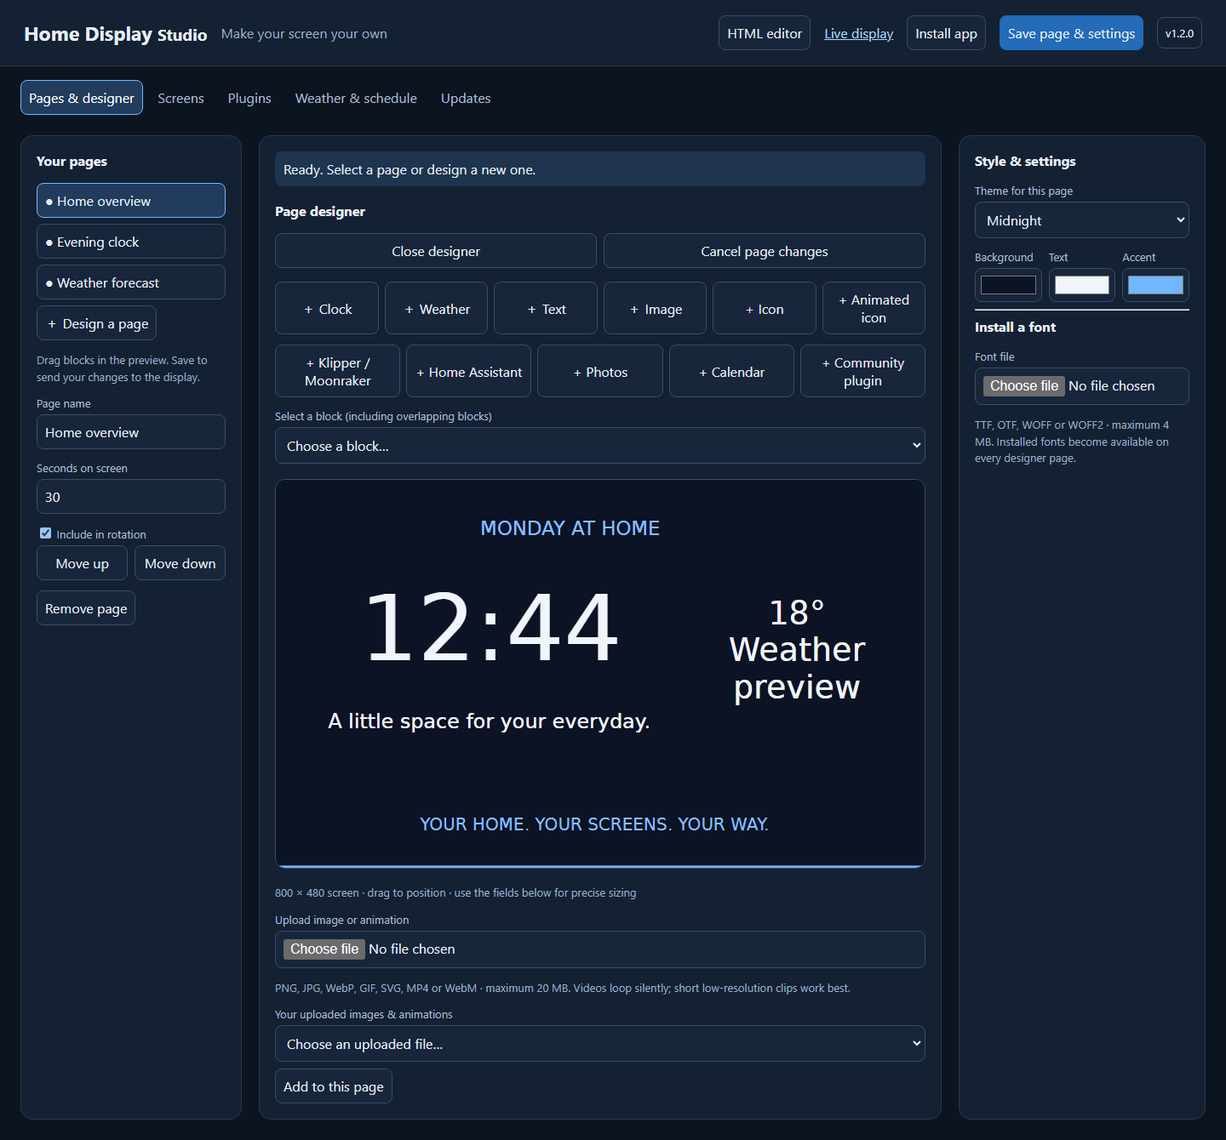
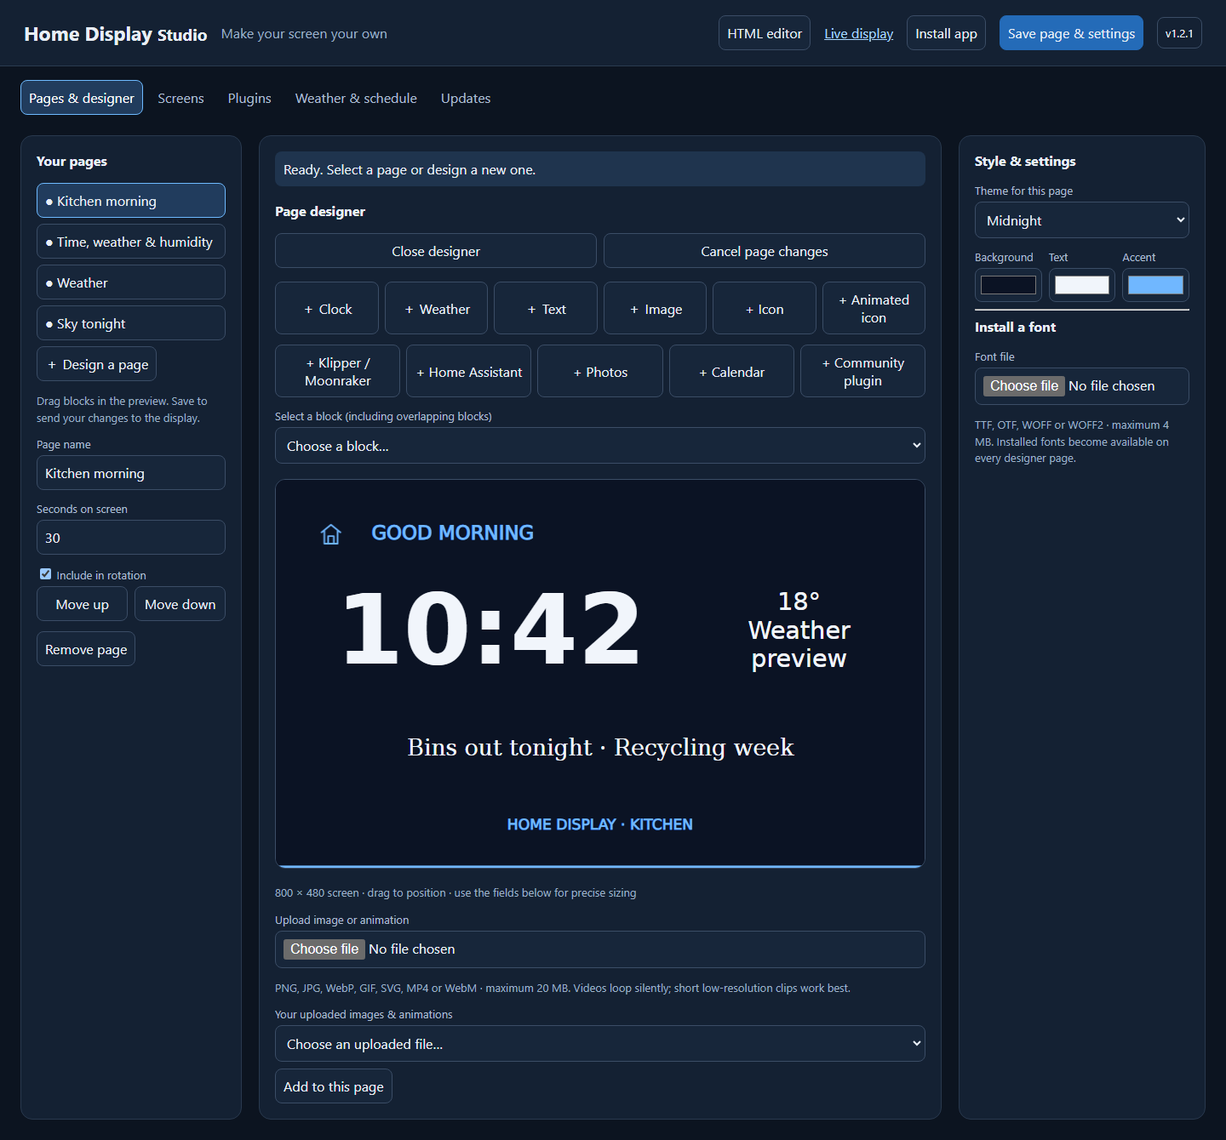
Rewrite README for public release with new screenshots
The screenshot tool now uses a fixed clock and full weather data, and builds
a gallery of the built-in pages for the README.

diff --git a/tools/capture-screenshots.py b/tools/capture-screenshots.py
@@ -1,29 +1,59 @@
-import os,json,socket,subprocess,tempfile,time,urllib.request,shutil
+"""Regenerate docs/images with temporary example data; saved dashboard settings are left untouched."""
+import os,json,socket,subprocess,tempfile,time,urllib.request,shutil,datetime
 from pathlib import Path
+from PIL import Image,ImageDraw
 from playwright.sync_api import sync_playwright
 root=Path(__file__).resolve().parents[1]
 output=root/'docs/images';output.mkdir(parents=True,exist_ok=True)
+MORNING=datetime.datetime(2026,10,12,10,42);EVENING=datetime.datetime(2026,10,12,21,15)
+def weather(day):
+    sunrise=int(datetime.datetime(2026,10,12,7,10).timestamp());sunset=int(datetime.datetime(2026,10,12,18,20).timestamp())
+    return {'current':{'temperature_2m':17.6,'apparent_temperature':16.4,'relative_humidity_2m':62,'dew_point_2m':10.2,'wind_speed_10m':12,'pressure_msl':1018,'weather_code':2,'is_day':int(day)},
+            'daily':{'time':['2026-10-12','2026-10-13'],'weather_code':[2,61],'temperature_2m_max':[19,16],'temperature_2m_min':[11,9],'precipitation_probability_max':[10,70],'sunrise':[sunrise,sunrise+86400],'sunset':[sunset,sunset+86400]}}
+def block(id,type,x,y,w,h,size,content='',colour='#f1f5fb',**style):
+    return dict(id=id,type=type,x=x,y=y,w=w,h=h,size=size,content=content,colour=colour,**style)
+def gallery(shots,target,columns=3,gap=18,scale=.75):
+    w,h=int(800*scale),int(480*scale);rows=-(-len(shots)//columns)
+    sheet=Image.new('RGB',(columns*w+(columns+1)*gap,rows*h+(rows+1)*gap),'#070b14')
+    mask=Image.new('L',(w,h),0);ImageDraw.Draw(mask).rounded_rectangle((0,0,w-1,h-1),radius=14,fill=255)
+    for i,shot in enumerate(shots):
+        sheet.paste(Image.open(shot).convert('RGB').resize((w,h),Image.LANCZOS),(gap+(i%columns)*(w+gap),gap+(i//columns)*(h+gap)),mask)
+    sheet.save(target,optimize=True)
 with tempfile.TemporaryDirectory() as data:
-    config=json.loads((root/'config.example.json').read_text())
-    def block(id,type,x,y,w,h,size,content='',colour='#f1f5fb'):
-        return dict(id=id,type=type,x=x,y=y,w=w,h=h,size=size,content=content,colour=colour)
-    blocks=[block('welcome','text',38,32,650,50,24,'MONDAY AT HOME','#87bfff'),block('clock','clock',30,105,470,155,112),block('greeting','text',38,270,450,50,25,'A little space for your everyday.'),block('weather','weather',520,110,245,200,40),block('note','text',38,400,710,45,21,'YOUR HOME. YOUR SCREENS. YOUR WAY.','#87bfff')]
-    config['pages']=[dict(id='home',name='Home overview',url='design-display.html?id=home',time=30,active=True,design=dict(theme='midnight',bg='#0b1324',fg='#f1f5fb',accent='#70b7ff',blocks=blocks)),dict(id='clock',name='Evening clock',url='time.html',time=30,active=True),dict(id='weather',name='Weather forecast',url='weather.html',time=30,active=True)]
+    config=json.loads((root/'config.example.json').read_text());config['settings']['locationName']='London'
+    blocks=[block('icon','icon',40,34,56,56,44,'home','#70b7ff',animation='float'),
+            block('welcome','text',104,38,420,50,24,'GOOD MORNING','#70b7ff',align='left',weight='700'),
+            block('clock','clock',30,100,470,170,120,font='heavy'),
+            block('weather','weather',520,100,250,170,30),
+            block('note','text',40,300,720,60,28,'Bins out tonight · Recycling week',font='serif'),
+            block('footer','text',40,400,720,44,18,'HOME DISPLAY · KITCHEN','#70b7ff',weight='600')]
+    config['pages']=[dict(id='home',name='Kitchen morning',url='design-display.html?id=home',time=30,active=True,design=dict(theme='midnight',bg='#0b1324',fg='#f1f5fb',accent='#70b7ff',blocks=blocks)),
+                     dict(id='overview',name='Time, weather & humidity',url='display.html',time=30,active=True),
+                     dict(id='weather',name='Weather',url='weather.html',time=30,active=True),
+                     dict(id='sky',name='Sky tonight',url='sky.html',time=30,active=True)]
     Path(data,'config.json').write_text(json.dumps(config))
     Path(data,'screens.json').write_text(json.dumps([dict(id='kitchen',name='Kitchen display',pageIds=None),dict(id='living-room',name='Living room TV',pageIds=['home','weather'])]))
     with socket.socket() as sock:sock.bind(('127.0.0.1',0));port=sock.getsockname()[1]
     env={**os.environ,'HOST':'127.0.0.1','PORT':str(port),'HOME_DISPLAY_DATA_DIR':data};env.pop('HOME_DISPLAY_ADMIN_PASSWORD_HASH',None)
-    process=subprocess.Popen([shutil.which('node'),'server.js'],cwd=root,env=env,stdout=subprocess.DEVNULL)
+    process=subprocess.Popen([shutil.which('node'),'server.js'],cwd=root,env=env,stdout=subprocess.DEVNULL,stderr=subprocess.DEVNULL)
     try:
         base=f'http://127.0.0.1:{port}'
         for _ in range(100):
             try:urllib.request.urlopen(base+'/api/health');break
             except OSError:time.sleep(.1)
         with sync_playwright() as pw:
-            browser=pw.chromium.launch();page=browser.new_page(viewport={'width':1440,'height':1000},device_scale_factor=1)
-            errors=[];page.on('pageerror',lambda e:errors.append(str(e)))
-            # Repeatable preview data; the real renderer and editor remain in use.
-            page.route('**/api.open-meteo.com/**',lambda route:route.fulfill(json={'current':{'temperature_2m':18,'relative_humidity_2m':56,'weather_code':2,'wind_speed_10m':9},'daily':{'time':['2026-10-12'],'temperature_2m_max':[20],'temperature_2m_min':[12],'weather_code':[2]}}))
+            browser=pw.chromium.launch();errors=[]
+            # Repeatable clock and weather; the real pages, renderer and editor remain in use.
+            def open_page(viewport,at,scale=1):
+                page=browser.new_page(viewport=viewport,device_scale_factor=scale);page.on('pageerror',lambda e:errors.append(str(e)))
+                page.clock.install(time=at);page.route('**/api.open-meteo.com/**',lambda route:route.fulfill(json=weather(at.hour<18)));return page
+            with tempfile.TemporaryDirectory() as shots:
+                captured=[]
+                for name,at in [('design-display.html?id=home',MORNING),('display.html',MORNING),('weather.html',MORNING),('time.html',MORNING),('humidity.html',MORNING),('sky.html',EVENING)]:
+                    page=open_page({'width':800,'height':480},at,2);page.goto(base+'/'+name);page.wait_for_timeout(1500)
+                    captured.append(Path(shots,f'{len(captured)}.png'));page.screenshot(path=str(captured[-1]));page.close()
+                gallery(captured,output/'display-preview.png')
+            page=open_page({'width':1440,'height':1000},MORNING)
             page.goto(base+'/admin');page.wait_for_function("document.getElementById('status').textContent.startsWith('Ready')")
             page.wait_for_timeout(700);page.screenshot(path=str(output/'studio-designer.png'),full_page=True)
             page.get_by_role('button',name='Screens',exact=True).click();page.get_by_text('Kitchen display',exact=True).wait_for();page.screenshot(path=str(output/'studio-screens.png'),full_page=True)
@@ -31,7 +61,6 @@ with tempfile.TemporaryDirectory() as data:
             page.get_by_role('button',name='Weather & schedule',exact=True).click();assert page.locator('#lat').is_visible() if page.locator('#lat').count() else page.locator('#latitude').is_visible()
             page.get_by_role('button',name='Updates',exact=True).click();assert page.locator('#check-updates').is_visible();assert not page.locator('#github-token').is_visible()
             page.set_viewport_size({'width':390,'height':844});page.get_by_role('button',name='Screens',exact=True).click();page.wait_for_timeout(200);assert page.evaluate('document.documentElement.scrollWidth<=innerWidth')
-            page.goto(base+'/design-display.html?id=home');page.set_viewport_size({'width':1200,'height':720});page.wait_for_timeout(1200);page.screenshot(path=str(output/'display-preview.png'))
             assert not errors,errors
             browser.close();print('Screenshots captured; navigation, mobile width and optional token controls verified.')
     finally:process.terminate();process.wait()

diff --git a/README.md b/README.md
@@ -1,123 +1,117 @@
 <p align="center"><img src="app-icon.svg" width="88" alt="Home Display logo"></p>
 
-# Home Display
+<h1 align="center">Home Display</h1>
 
-**Your home dashboard, designed by you.**
+<p align="center"><strong>A wall dashboard for your home that you design in the browser.</strong></p>
 
-Turn a Raspberry Pi and a screen into a display for clocks, weather, photos, animated layouts and connected devices. Design pages in your browser, choose what each screen shows, and reuse the same dashboard on an Android TV.
+<p align="center">
+  <a href="INSTALL.md">Install</a> ·
+  <a href="https://github.com/lunnysteve/home-display/releases">Download</a> ·
+  <a href="PLUGINS.md">Plugins</a> ·
+  <a href="android-tv/README.md">Android TV</a> ·
+  <a href="CHANGELOG.md">Changelog</a>
+</p>
 
-Home Display runs on your own hardware. A Pi can host the dashboard and drive its attached display, or you can host the server separately and open screen URLs on other devices.
+![Six Home Display pages: a custom designed page, time with weather and humidity, weather, clock, humidity and the night sky](docs/images/display-preview.png)
 
-[Installation](INSTALL.md) · [Downloads](https://github.com/lunnysteve/home-display/releases) · [Plugin guide](PLUGINS.md) · [Android TV](android-tv/README.md) · [Changelog](CHANGELOG.md)
+Home Display turns a Raspberry Pi and a small screen into a rotating dashboard for the time, the weather, the moon, your photos and calendar, and devices around the house such as a 3D printer or Home Assistant. You manage everything from a phone or laptop on the same network. No cloud account is needed, and everything runs on your own hardware.
 
-![Example dashboard with a large clock, weather and a welcome message](docs/images/display-preview.png)
+## Features
 
-## Make it yours
+- **Ready-made pages.** These include clock, weather, humidity, moon phase and sunrise, forecast, countdown, the ISS tracker and NASA's picture of the day. They're lightweight enough for a Raspberry Pi 2.
+- **Visual page designer.** Drag clock, weather, text, image, icon, video and plugin blocks onto an 800 × 480 canvas. Choose colours, bundled or uploaded fonts and simple animations.
+- **HTML editor.** Edit any page's HTML, CSS and JavaScript and preview a draft before you save it.
+- **Multiple screens.** One server can drive several displays. Each screen has its own playlist and its own URL.
+- **Home integrations.** Show Klipper/Moonraker printer status, Home Assistant entities, photo slideshows and Google Calendar or iCal agendas. Integrations that are offline can be hidden automatically.
+- **Community plugins.** Install a plugin as a JSON definition and an HTML renderer. Credentials stay on the server.
+- **Sleep schedule.** The screen blanks at night and wakes in the morning.
+- **Safe updates.** Install new releases from the Studio. The checksum is verified first, and if the new version fails to start, the previous one is restored.
+- **Android TV.** Use a TV as another screen, or as its screensaver.
 
-| Feature | What you can do |
-| --- | --- |
-| Page designer | Arrange clock, weather, text, image and icon blocks on an 800 × 480 canvas. |
-| Fonts and themes | Choose colours, enlarge text, use bundled fonts or install your own TTF, OTF, WOFF or WOFF2 fonts. |
-| Images and motion | Upload photos, GIFs, SVGs and silent looping videos; animate individual blocks. |
-| HTML editor | Edit a page’s HTML, CSS and JavaScript, with a draft preview before saving. |
-| Multiple screens | Give each display its own page selection and a URL you can copy. |
-| Connected devices | Show Klipper/Moonraker printer status and selected Home Assistant entity states. Hide disconnected integrations. |
-| Photos and calendar | Rotate local photos or Google Photos exports, and show upcoming Google Calendar/iCalendar events. |
-| Universal plugins | Install reusable community definitions and HTML renderers, configure connections, and use any integration as a full page or designer block. |
-| Updates | Check versioned GitHub releases and install application updates on supported Pi installations, with rollback if startup fails. |
-| Android TV | View a screen when the app opens, or select Home Display as a system screensaver where supported. |
+## Quick start on a Raspberry Pi
 
-## Design in your browser
+You need a **Raspberry Pi 2 or newer**, an HDMI or official DSI display, and a microSD card flashed with **Raspberry Pi OS Lite (Bookworm or newer)**. Use [Raspberry Pi Imager](https://www.raspberrypi.com/software/) to set a username, Wi-Fi and SSH. On a Pi 2, use the 32-bit image.
 
-The Studio separates **Pages & designer**, **Screens**, **Plugins**, **Weather & schedule**, and **Updates**. Page colours and fonts stay beside the canvas; weather location and daily sleep times have their own settings area.
-
-![Studio with page list, visual designer and theme controls](docs/images/studio-designer.png)
-
-Add a page, place its blocks, choose fonts and colours, then select **Save page & settings** to send changes to the display. Screenshots use example pages and preview weather; your layout and live data will vary.
-
-## Get started on a Raspberry Pi
-
-You need a **Raspberry Pi 2 or newer**, an HDMI or DSI display, a microSD card and a suitable power supply. Flash **Raspberry Pi OS Lite, Bookworm or newer**, using Raspberry Pi Imager. Use 32-bit Lite on a Pi 2. Set a username, configure networking and enable SSH.
-
-On the Pi:
+Then, on the Pi:
 
 ```bash
-sudo apt update
-sudo apt install -y git
+sudo apt update && sudo apt install -y git
 git clone https://github.com/lunnysteve/home-display.git
 cd home-display
 sudo bash install.sh
 sudo reboot
 ```
 
-The repository is currently private while the project is prepared for sharing; cloning and downloading releases requires access until it is made public. These commands also work unchanged once it is public.
+The installer asks you to choose an admin password. After the reboot, the attached screen opens the dashboard. From another device, open **`http://YOUR-PI:3000/admin`** and sign in as `admin`.
 
-Choose an admin password during installation. After reboot, visit **`http://YOUR-PI:3000/admin`** from another device on the same network and sign in as **`admin`**. The attached display opens the dashboard automatically.
+If the Pi should only host the server, with no attached screen, use `sudo bash install.sh --server-only`. The [installation guide](INSTALL.md) covers hardware notes, the Pi 2 DSI screen workaround, backups and troubleshooting.
 
-For a Pi that only hosts the server, use `sudo bash install.sh --server-only`. The [installation guide](INSTALL.md) covers hardware, the Pi 2 DSI workaround, backups and troubleshooting. The installer targets Pi ARM hardware; the Node application can also run separately for development or other hosting. Network access is needed for installation and live weather.
+## Design your pages
 
-## One server, more screens
+The **Studio** at `/admin` has five sections: **Pages & designer**, **Screens**, **Plugins**, **Weather & schedule** and **Updates**.
 
-Create profiles under **Screens** and choose which pages and plugins each one includes. Open its URL on a Pi kiosk, browser or Android TV connected to the server.
+![The Studio page designer with the page list, live canvas and style settings](docs/images/studio-designer.png)
 
-![Screen profiles with display URLs and playlist controls](docs/images/studio-screens.png)
+To design a page, add it, place blocks on the canvas, and choose fonts and colours. Then select **Save page & settings** and the display updates.
 
-| Endpoint | Purpose |
+## Run more than one screen
+
+Under **Screens**, create a profile for each display and choose which pages it shows. Open the profile's URL on a Pi, in any browser, or in the Android TV app.
+
+![Screen profiles with their display URLs and page selection](docs/images/studio-screens.png)
+
+| URL | What it shows |
 | --- | --- |
-| `http://YOUR-PI:3000/` | Default display rotation. |
-| `http://YOUR-PI:3000/admin` | Studio and administration. |
-| `http://YOUR-PI:3000/screen/living-room` | A named screen profile, after you create it. |
-
-Profiles share the page library and weather settings. Each profile selects its own playlist; devices need network access to the server.
+| `http://YOUR-PI:3000/` | The default rotation of all active pages |
+| `http://YOUR-PI:3000/screen/kitchen` | A named screen profile |
+| `http://YOUR-PI:3000/admin` | The Studio |
 
 ## Connect your home
 
-The plugin system separates reusable integration definitions from your own connection settings. Start with **Klipper / Moonraker**, **Home Assistant**, **Photos**, or **Calendar**. Every example works as a full page or a movable block in **Pages & designer**. Choose a connection in the block’s properties to use more than one device of the same type.
+Under **Plugins**, add a connection. Each connection can appear as a full page in the rotation, as a block inside a designed page, or as both. **Test connection** makes a real request from the server, and **Only show when connected** hides the plugin while the device is offline.
 
-![Plugin setup with source address, connection test and connected-only visibility](docs/images/studio-plugins.png)
+![Adding a Klipper / Moonraker printer connection](docs/images/studio-plugins.png)
 
-| Example | Setup |
+| Integration | What you need |
 | --- | --- |
-| Klipper / Moonraker | Enter `http://PRINTER-IP:7125` and an API key if needed. |
-| Home Assistant | Enter the server URL, a long-lived access token and the entity IDs you want to display. |
-| Photos | Upload images or Google Photos exports, choose existing uploads, or add image URLs. Direct Google account sign-in is not part of this version. |
-| Calendar | Paste your Google Calendar iCal address, use another feed, upload an `.ics` file, or choose a Home Assistant calendar. |
+| Klipper / Moonraker | The printer address, e.g. `http://printer.local:7125`, and an API key if you set one |
+| Home Assistant | Your server URL, a long-lived access token and the entity IDs to show |
+| Photos | Uploaded images, a Google Photos export, or image URLs |
+| Calendar | A Google Calendar iCal address, another iCal feed, an uploaded `.ics` file or a Home Assistant calendar |
 
-Use **Test connection** for a real request from the server. **Only show when connected** hides an unavailable full page or block; other content on the designed page keeps showing. Disable **Include as a full page in rotation** for integrations you only want inside your designs.
-
-Other users can distribute plugins as a **JSON definition and HTML renderer**. Install them under **Plugins → Install a community plugin**, then enter your own connection settings. Read the [setup and developer guide](PLUGINS.md) and try the [installable power-meter example](plugin-examples/). Source credentials and private calendar feed addresses remain on the server.
+To write your own plugin, see the [plugin guide](PLUGINS.md) and the [power-meter example](plugin-examples/).
 
 ## Android TV
 
-Download **`home-display-tv-vVERSION.apk`** from [Releases](https://github.com/lunnysteve/home-display/releases), sideload it onto your TV, and open **Home Display**. Enter the server URL, load its profiles and choose a screen.
+1. Download `home-display-tv-vX.Y.Z.apk` from [Releases](https://github.com/lunnysteve/home-display/releases) and sideload it onto the TV.
+2. Open **Home Display**, enter your server URL and pick a screen.
+3. Optionally, choose Home Display as the TV's screensaver.
 
-- Leave automatic viewing enabled to show the screen when the app opens.
-- For a screensaver, choose Home Display in the TV’s system screensaver settings.
-- Use Back or Menu to return to the app menu.
+It needs Android 6 or newer. Whether the screensaver option appears depends on the TV's firmware. Android TV support is new, so reports from real devices are very welcome. See [Android TV setup](android-tv/README.md).
 
-Android 6 or newer and a working Android System WebView are required. Screensaver availability depends on TV firmware. The APK is built and signed; playback and screensaver behaviour still need verification on a physical TV. See [Android TV setup](android-tv/README.md).
+## Updates, backups and security
 
-## Updates and your data
+- **Updates.** **Updates** in the Studio checks GitHub for the latest release and installs it on Pi installations. Your settings, uploads, fonts, screens and plugins are kept in `/var/lib/home-display`.
+- **Backups.** Before you reflash a card, copy `/var/lib/home-display` and `/etc/home-display`.
+- **Security.** The Studio is protected by the admin password and is meant for a trusted home network. Put it behind an HTTPS reverse proxy before you expose it anywhere else. Uploaded HTML pages and plugins run in the display's browser, so only install ones you trust.
 
-**Updates** shows the installed version, checks the latest stable release, and offers installation when a newer compatible release is available. **Public releases need no GitHub token.** Private releases use the optional repository access setting with a token restricted to **Contents: read-only**.
+## Development
 
-Standalone Pi updates preserve settings, uploads, installed fonts, screens and plugin configuration in `/var/lib/home-display`. The updater verifies the release checksum and restores the previous application if its health check fails. Back up runtime data and `/etc/home-display` before replacing a card or making major changes. See [release details](RELEASING.md).
-
-Admin access is intended for a trusted local network; use HTTPS when accessing it through a proxy. Installable web-app features on phones require trusted HTTPS. Uploaded HTML and plugins run code supplied by the owner.
-
-## Development and contributions
-
-Use Node.js 22:
+Home Display is a small Node.js (22 or newer) server with plain HTML, CSS and JavaScript pages. There is no build step.
 
 ```bash
 npm ci
 npm test
-npm start
+npm start          # http://localhost:3000 and http://localhost:3000/admin
 ```
 
-Open `http://localhost:3000/admin`. The Pi installer configures authentication; a development server only enables it when an admin password hash is configured.
+To protect the Studio on a development machine, create a password hash and set it before you start the server:
 
-Browser checks use Python, Playwright and Pillow:
+```bash
+export HOME_DISPLAY_ADMIN_PASSWORD_HASH="$(node password.js)"   # type a password, then Ctrl+D
+```
+
+The browser tests use Python, Playwright and Pillow:
 
 ```bash
 python -m pip install playwright pillow
@@ -125,8 +119,21 @@ python -m playwright install chromium
 python tests/designer-browser.py
 python tests/plugin-browser.py
 python tests/updater-rollback.py
+python tools/capture-screenshots.py   # regenerates the images in this README
 ```
 
-Bug reports, hardware test results, documentation improvements and plugin ideas are welcome. Include your device model, OS version, application version and steps to reproduce an issue. Keep credentials, personal settings and uploaded media out of contributions.
+| Path | Contents |
+| --- | --- |
+| `server.js` | Express server, API and admin authentication |
+| `*.html`, `lite.js`, `lite.css` | Display pages and the shared lightweight renderer |
+| `designer.*`, `studio-*.js`, `plugin-*.js` | The Studio and the plugin system |
+| `app-files.json` | Core files that the Studio can't overwrite |
+| `pi/` | Installer helpers, systemd units and kiosk session |
+| `android-tv/` | Android TV viewer and screensaver |
+| `tests/`, `tools/` | Automated checks and release tooling |
 
-To regenerate the example screenshots and check Studio navigation, run `python tools/capture-screenshots.py`. This uses temporary example data and leaves your saved dashboard settings intact.
+## Contributing
+
+Bug reports, hardware test results, documentation fixes and plugin ideas are all welcome. When you report a problem, include your device model, OS version, Home Display version (shown in the Studio header) and the steps to reproduce it. Please keep credentials, personal settings and uploaded media out of issues and pull requests.
+
+Release steps are in [RELEASING.md](RELEASING.md).

diff --git a/CHANGELOG.md b/CHANGELOG.md
@@ -1,5 +1,18 @@
 # Changelog
 
+## Unreleased
+
+- Admin passwords are hashed with salted scrypt (`node password.js`); existing SHA-256 hashes still work.
+- The server warns at startup when no admin password is configured.
+- Uploading a file with an existing name keeps both files unless the upload explicitly replaces it.
+- Older pages use the bundled fonts instead of Google Fonts, so they render offline.
+- NASA picture page caches the daily picture, accepts `?key=` for your own API key and handles errors.
+- ISS page no longer falls back to an insecure HTTP API.
+- Node.js 22 or newer is supported (previously 22 only).
+- Release archives no longer include tests, tools or documentation images.
+- Removed the superseded `weather-clock.html` page and the abandoned Wayland/X11 display trials.
+- Rewritten public README with new screenshots.
+
 ## 1.2.1
 
 - Fix blank named screens by loading rotation pages from the server root.
